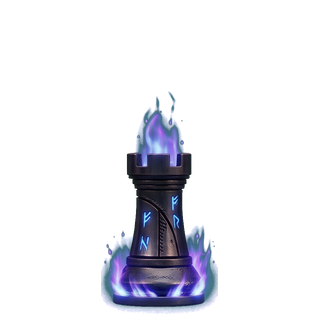
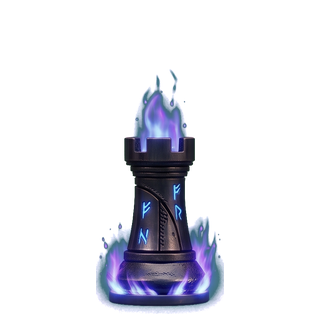
Per-piece ratios for the two shapes the sheets disagree about
The black rook now runs at 1.12 of its white counterpart and the bishop at
0.96, on top of the 1.02 the rest of the side carries.

The two sheets were generated separately and do not draw every piece to the
same proportions. One global ratio between the sides cannot fix that, because
the error is per shape: the black rook read short and the bishop read tall
against their own counterparts, and no single number moves one without moving
the other the wrong way.

So the cutter takes overrides -- `ref:<dir>:1.02:R=1.12,B=0.96`. Fixing this
with a number beats regenerating the art, which would come back with a fresh
set of disagreements somewhere else.

Claude-Session: https://claude.ai/code/session_01LiXZnuzu6WQwHSooUohDJq

Changed region(s): [[0.2812, 0.2188, 0.7188, 0.9688]]

diff --git a/assets/board/recorta_pecas.py b/assets/board/recorta_pecas.py
@@ -6,7 +6,7 @@ K Q R B N P. What comes out is what the board actually loads -- 320x320 RGBA,
 one file per piece.
 
     python3 recorta_pecas.py <folha> <destino> <bandas> <altura_max>
-    python3 recorta_pecas.py <folha> <destino> <bandas> ref:<dir>:<razao>
+    python3 recorta_pecas.py <folha> <destino> <bandas> ref:<dir>:<razao>[:R=1.1,B=.97]
 
 `bandas` says what each row of the sheet is, top to bottom, comma separated:
 `w` white, `b` black, `-` skip. So `w,b` takes both rows of one sheet, and
@@ -19,7 +19,11 @@ from DIFFERENT sheets, and then nothing inside one sheet can say how big it
 should be relative to the other.
 
 `ref:<dir>:<razao>` sizes each piece against the one already in `<dir>` of the
-same type, at that ratio -- so a black rook is a fixed fraction of the white
+same type, at that ratio. A trailing `R=1.1,B=0.97` overrides it per piece --
+the sheets do not agree about every shape, and a rook that reads short next to
+its counterpart is fixed here rather than by regenerating the art.
+
+The ratio sizes each piece against the one already in `<dir>` of the same type -- so a black rook is a fixed fraction of the white
 rook rather than of the black king. That is not the same thing, and the
 difference shows: with each row scaled as a unit, the two sheets' internal
 proportions came out at ratios from 0.77 to 1.07 between the sides, which put
@@ -136,9 +140,16 @@ def main():
     arg = sys.argv[4] if len(sys.argv) > 4 else str(LADO - 2 * MARGEM)
     ref = None
     if arg.startswith("ref:"):
-        _, refdir, razao = arg.split(":")
-        ref = {n: Image.open(os.path.join(refdir, f"w{n}.png")) for n in NOMES}
-        ref = {n: altura_visivel(im) * float(razao) for n, im in ref.items()}
+        partes = arg.split(":")
+        refdir, razao = partes[1], float(partes[2])
+        por_peca = {}
+        if len(partes) > 3:
+            for kv in partes[3].split(","):
+                k, v = kv.split("=")
+                por_peca[k.strip()] = float(v)
+        ref = {n: altura_visivel(Image.open(os.path.join(refdir, f"w{n}.png")))
+                  * por_peca.get(n, razao)
+               for n in NOMES}
         alvo = None
     else:
         alvo = int(arg)

diff --git a/assets/board/README.md b/assets/board/README.md
@@ -19,6 +19,11 @@ piece of the same type** -- very slightly taller, on purpose. A dark shape
 reads smaller than a light one of the same size, so matching the numbers
 exactly makes black look shrunken. The two percent buys back the illusion.
 
+Two pieces carry their own ratio on top of that: the black rook at 1.12 and
+the bishop at 0.96. The sheets do not agree about those two shapes, and the
+disagreement is visible when a rook stands next to its counterpart. Fixed by a
+number rather than by regenerating the art.
+
 That last part is the whole trick, and it is not the obvious way to do it. The
 obvious way scales each row as a unit, so every piece inherits the internal
 proportions its own sheet drew. Done that way here, the ratio between the
@@ -35,7 +40,7 @@ Heights as shipped, in pixels of the 320 canvas:
 | | K | Q | R | B | N | P |
 |---|---|---|---|---|---|---|
 | white | 308 | 304 | 221 | 298 | 250 | 167 |
-| black | 314 | 310 | 223 | 304 | 255 | 170 |
+| black | 314 | 310 | 245 | 286 | 255 | 170 |
 
 Both sides come from the second row of their sheet -- the one with flame and
 runes. The first row of each is a quieter alternative, still there.
@@ -46,7 +51,7 @@ Two sheets, because the sides were generated separately:
 
 ```
 python3 recorta_pecas.py brancas-fonte.png . "-,w" 308            # 2a fila
-python3 recorta_pecas.py pretas-fonte.png  . "-,b" ref:.:1.02     # 2a fila
+python3 recorta_pecas.py pretas-fonte.png  . "-,b" ref:.:1.02:R=1.12,B=0.96
 ```
 
 The third argument says what each row of the sheet is, top to bottom -- `w`,
